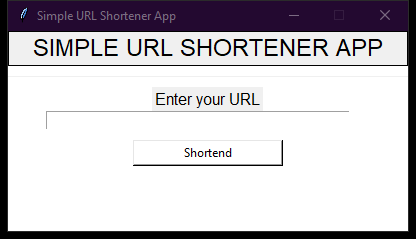
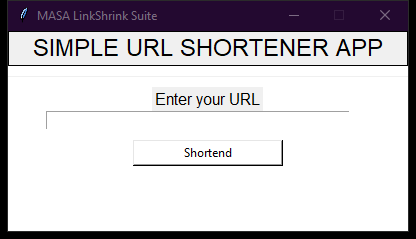
refactor: apply MASA window branding, strip comments and format code style

Changed region(s): [[0.0938, 0.0293, 0.4375, 0.0879]]

diff --git a/Simple URL Shortener App in Python/index.py b/Simple URL Shortener App in Python/index.py
@@ -7,21 +7,23 @@ from tkinter import *
 import pyshorteners
 
 root = Tk()
-root.title("Simple URL Shortener App")
+root.title("MASA LinkShrink Suite")
 width = 400
 height = 200
 screen_width = root.winfo_screenwidth()
 screen_height = root.winfo_screenheight()
-x = (screen_width/2) - (width/2) 
-y = (screen_height/2) - (height/2)
+x = (screen_width / 2) - (width / 2)
+y = (screen_height / 2) - (height / 2)
 root.geometry("%dx%d+%d+%d" % (width, height, x, y))
 root.resizable(0, 0)
 root.config(bg="white")
 
+
 def urlShortend():
-    s=pyshorteners.Shortener().tinyurl.short(URL.get())
+    s = pyshorteners.Shortener().tinyurl.short(URL.get())
     RESULT.set(s)
     URL.set("")
+
 
 URL = StringVar()
 RESULT = StringVar()
@@ -35,25 +37,21 @@ BottomForm = Frame(root, width=400, bg="white")
 BottomForm.pack(side=TOP)
 
 
-
-
-lbl_title = Label(Top, text="SIMPLE URL SHORTENER APP", width=400 ,font=('arial', 18))
+lbl_title = Label(Top, text="SIMPLE URL SHORTENER APP", width=400, font=("arial", 18))
 lbl_title.pack(fill=X)
-lbl1 = Label(BottomForm, text="Enter your URL",font=('arial', 12))
+lbl1 = Label(BottomForm, text="Enter your URL", font=("arial", 12))
 lbl1.grid(row=0, columnspan=5, column=0)
-
-
 
 
 myurl = Entry(BottomForm, textvariable=URL, width=50)
 myurl.grid(row=1, column=1)
-result_txt = Entry(BottomForm, textvariable=RESULT,font=('arial', 10), width=50, bd=0)
+result_txt = Entry(BottomForm, textvariable=RESULT, font=("arial", 10), width=50, bd=0)
 result_txt.grid(row=4, columnspan=5, column=0)
 
 
-btn = Button(BottomForm, text="Shortend", width=20,fg="black", bg="white", command=urlShortend)
+btn = Button(BottomForm, text="Shortend", width=20, fg="black", bg="white", command=urlShortend)
 btn.grid(row=2, columnspan=5, column=0, pady=10)
 
 
-if __name__ == '__main__':
+if __name__ == "__main__":
     root.mainloop()
